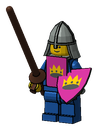
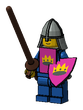
BrickForge: smaller artwork, taller window, lists can't squash away
Claude-Session: https://claude.ai/code/session_01WLGHPxK8KS5CS5F7tSaoXt

diff --git a/brickforge/brickforge.py b/brickforge/brickforge.py
@@ -244,7 +244,9 @@ class App:
             core.STUD_HEIGHT = 1.7
 
         root.title(f"{APP} {VERSION} - LEGO part to STL")
-        root.geometry("1180x800")
+        # tall enough for the knights and the lists, but never taller than the screen
+        h = max(700, min(940, root.winfo_screenheight() - 90))
+        root.geometry(f"1180x{h}")
         root.minsize(980, 680)
         self._build()
         self.log("Loading parts library...")
@@ -298,7 +300,7 @@ class App:
             words = ttk.Frame(head)
             words.pack(side="left", fill="x", expand=True, padx=16)
             ttk.Label(words, text="Any LEGO part or set, ready to print",
-                      font=("Segoe UI", 15, "bold")).pack(anchor="w", pady=(28, 2))
+                      font=("Segoe UI", 15, "bold")).pack(anchor="w", pady=(18, 2))
             ttk.Label(words, text="Pick a part or a whole set, press Generate - the knights do the rest.",
                       foreground="#555", font=("Segoe UI", 10)).pack(anchor="w")
         main = ttk.Frame(self.root, padding=8)
@@ -381,7 +383,7 @@ class App:
         mk = ttk.LabelFrame(right, text="Make list (you can also type part numbers here)")
         mk.grid(row=1, column=0, sticky="nsew", pady=(6, 0))
         mk.columnconfigure(0, weight=1)
-        mk.rowconfigure(0, weight=1)
+        mk.rowconfigure(0, weight=1, minsize=90)        # the make list box never squashes away
         self.parts_txt = tk.Text(mk, height=6, width=30, font=("Consolas", 11), undo=True)
         self.parts_txt.grid(row=0, column=0, columnspan=2, sticky="nsew", padx=6, pady=6)
         ttk.Button(mk, text="Clear list", command=lambda: self.parts_txt.delete("1.0", "end")).grid(
@@ -447,8 +449,8 @@ class App:
     # ---------- sets tab ----------
     def _build_sets_tab(self, tab):
         tab.columnconfigure(1, weight=1)
-        tab.rowconfigure(3, weight=1)
-        tab.rowconfigure(5, weight=2)
+        tab.rowconfigure(3, weight=1, minsize=140)      # sets list
+        tab.rowconfigure(5, weight=2, minsize=150)      # what's in the box
         ttk.Label(tab, text="Theme:").grid(row=0, column=0, sticky="w", padx=6, pady=(6, 3))
         self.theme_var = tk.StringVar(value="All themes")
         self.theme_box = ttk.Combobox(tab, textvariable=self.theme_var, state="readonly", height=30)

diff --git a/brickforge/art/minifig_art.py b/brickforge/art/minifig_art.py
@@ -327,19 +327,19 @@ def banner(lib, out_png, title="BrickForge", height=230):
 def make_all(lib):
     """Every picture BrickForge's window uses."""
     out = {}
-    out["banner"] = banner(lib, os.path.join(HERE, "banner.png"), height=130)
+    out["banner"] = banner(lib, os.path.join(HERE, "banner.png"), height=118)
     # knight at the Generate button: arm resting, then arm out pressing (turned so the arm
     # points left - the app shows him mirrored, beside the button)
     for name, arm in (("knight_ready", 25), ("knight_press", 80)):
         im, _ = render(lib, place(knight(right=arm, lance=False), (0, 0, 0), yaw=30),
-                       None, height=110, yaw=0, pitch=10)
+                       None, height=80, yaw=0, pitch=10)
         im = im.transpose(0)            # mirror: he faces right, towards the button
         im.save(os.path.join(HERE, name + ".png"))
         out[name] = im.size
     im, _ = render(lib, place(lady_knight(right=150), (0, 0, 0), yaw=-25),
-                   os.path.join(HERE, "lady_knight_wave.png"), height=110, yaw=0, pitch=10)
+                   os.path.join(HERE, "lady_knight_wave.png"), height=80, yaw=0, pitch=10)
     out["lady_knight_wave"] = im.size
-    im, _ = render(lib, knight(), os.path.join(HERE, "knight_guard.png"), height=130, yaw=-28, pitch=12)
+    im, _ = render(lib, knight(), os.path.join(HERE, "knight_guard.png"), height=110, yaw=-28, pitch=12)
     out["knight_guard"] = im.size
     return out
 
